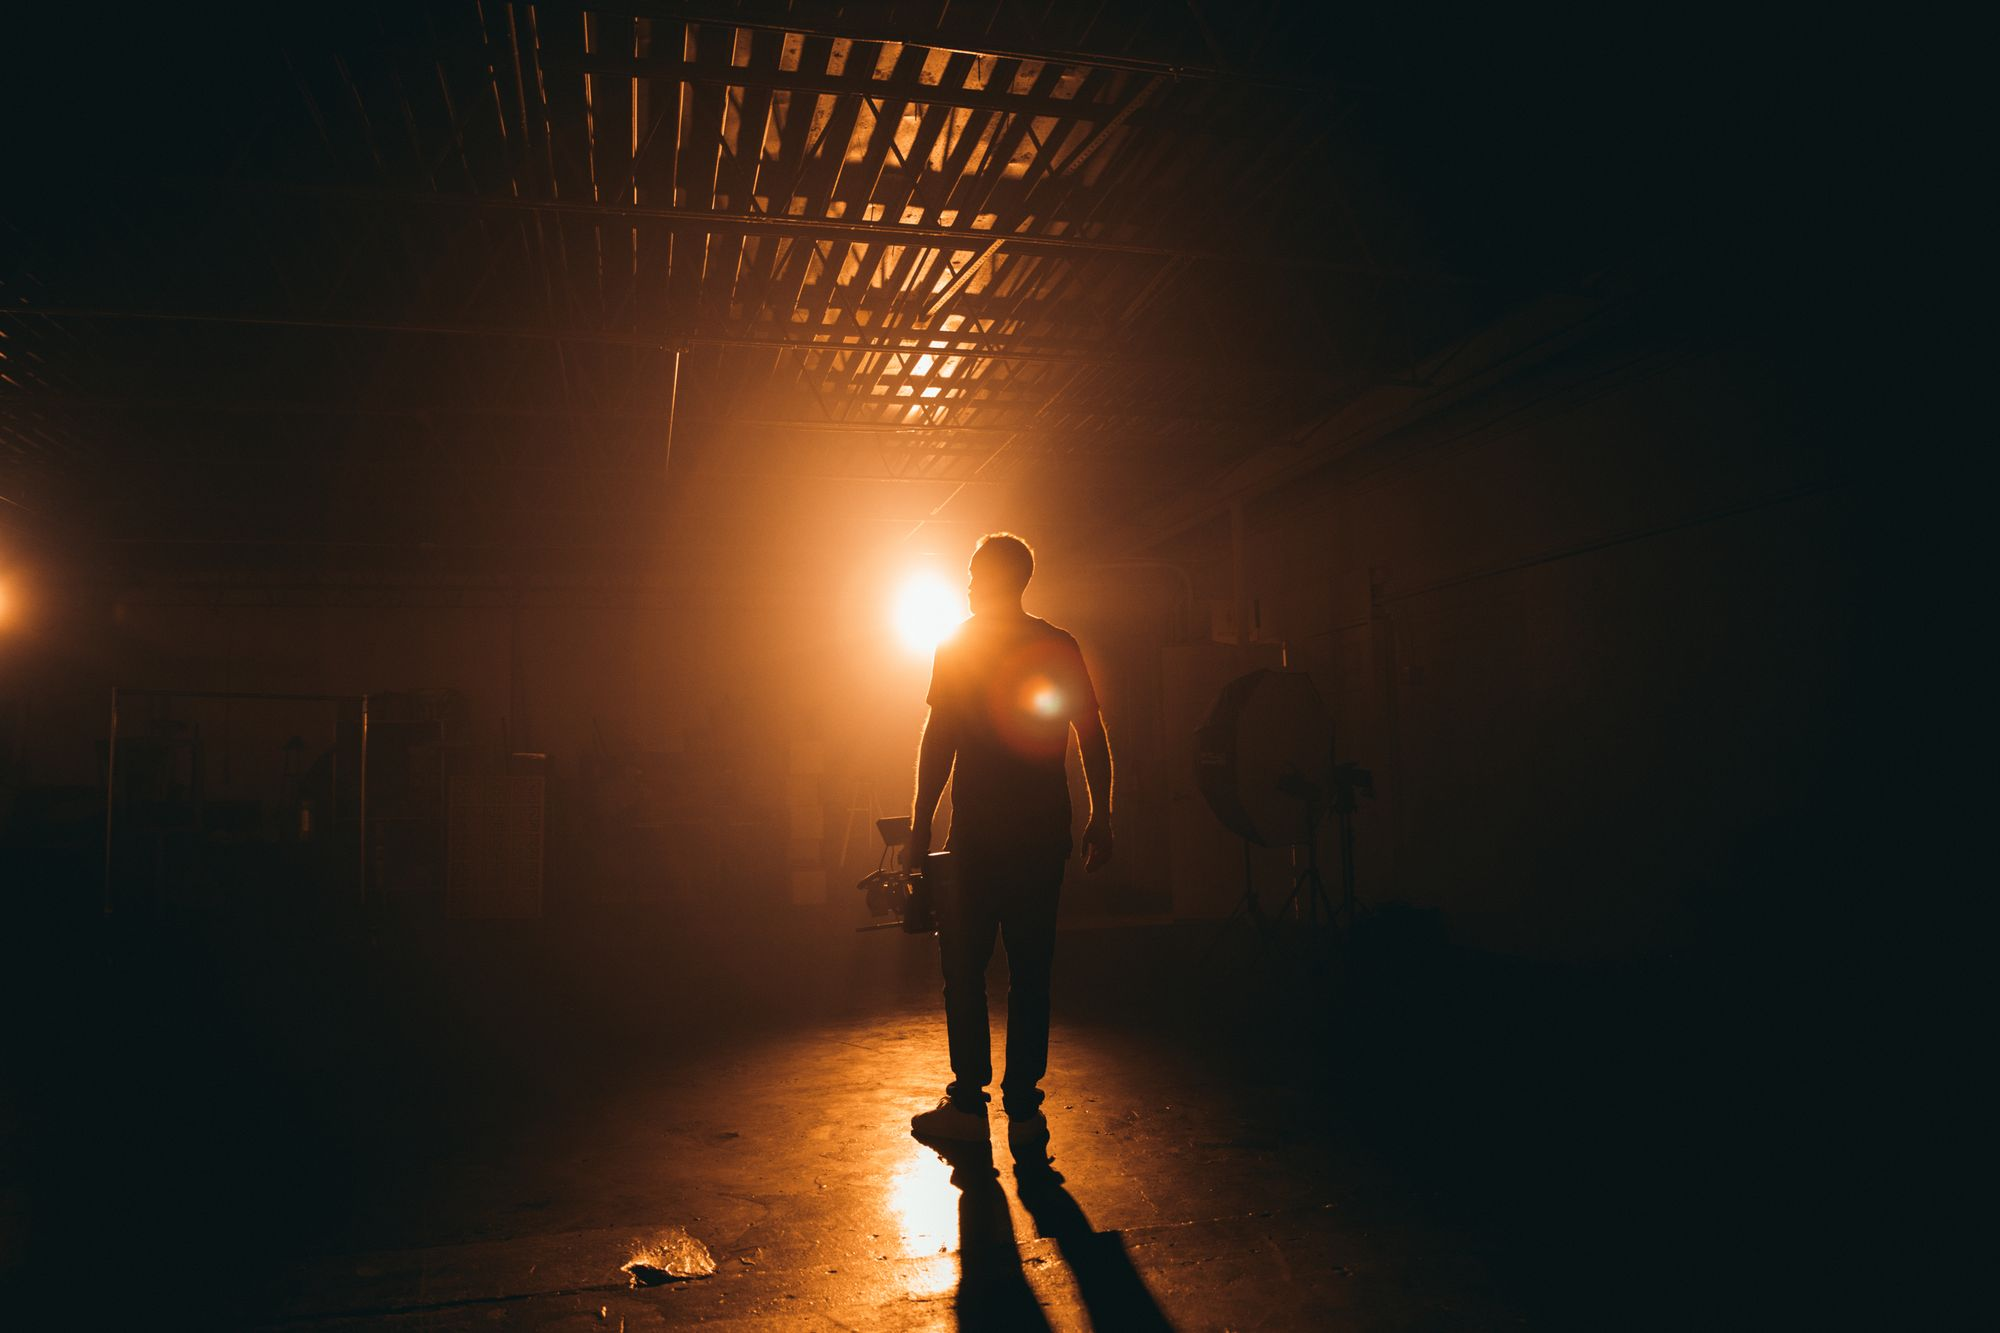
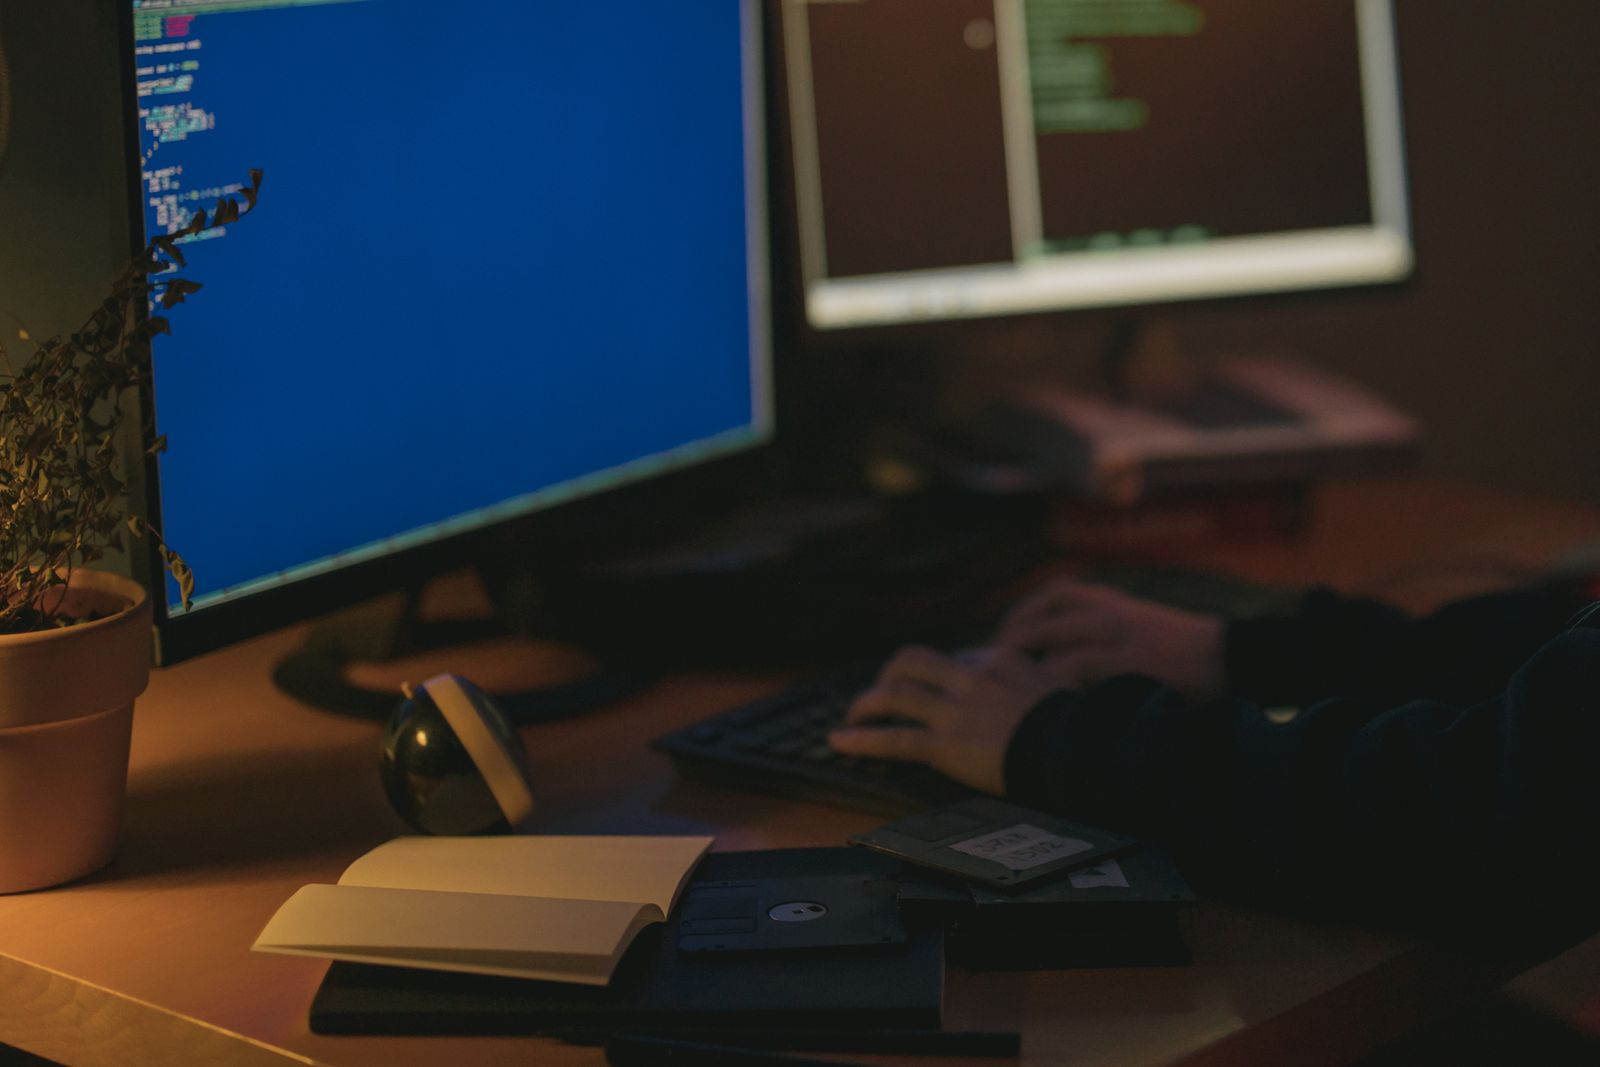
Swap team and location images for stronger fits
- studio.jpeg: dark dev-desk tech-workspace still-life (anonymous),
  replacing the backlit figure — reads clearly as a tech studio.
- reach-aerial.jpeg: top-down aerial of a Kolkata flyover junction,
  localising the "reach" band to the studio's home city.
- IMAGE_CREDITS.md: updated provenance (Pexels 5473299, 17778589).

diff --git a/docs/IMAGE_CREDITS.md b/docs/IMAGE_CREDITS.md
@@ -26,13 +26,13 @@ specimens are unchanged.
 | `work-sentinel.jpeg` | Work — Sentinel (AI agents) | Orange neon X reflected on a dark facade | Pexels `17192724` |
 | `work-atlas.jpeg` | Work — Atlas (robotics) | Cobot arm + gripper on near-black | Pexels `8438863` |
 | `work-skyline.jpeg` | Work — Skyline (drones) | Aerial foggy valley with road | Pexels `13444084` |
-| `studio.jpeg` | Studio — "the studio at work" | Backlit lone figure in a studio space (anonymous) | Pexels `3379932` |
+| `studio.jpeg` | Studio — "the studio at work" | Dark dev desk — code monitor + anonymous hands (tech-workspace still-life) | Pexels `5473299` |
 | `footer-band.jpeg` | Footer — cinematic pre-footer band | Aerial through cloud cover | Pexels `34926578` |
 | `stage-software.jpeg` | Theater — Software & Product | Backlit keyboard macro | `photo-1612383401597-cdfb8bdfa0d9` |
 | `stage-ai.jpeg` | Theater — AI Agents & LLM | Circuit board macro | `photo-1518770660439-4636190af475` |
 | `stage-robotics.jpeg` | Theater — Robotics | Industrial robot arm, white showroom | `photo-1655393001768-d946c97d6fd1` |
 | `stage-drones.jpeg` | Theater — Drone Operations | Quadcopter over misty ridges | `photo-1508444845599-5c89863b1c44` |
-| `reach-aerial.jpeg` | Reach — footprint band | Aerial highway interchange | `photo-1465447142348-e9952c393450` |
+| `reach-aerial.jpeg` | Reach — footprint band | Top-down aerial of a Kolkata flyover junction at dusk | Pexels `17778589` |
 
 Original page for a Pexels photo: `https://www.pexels.com/photo/<ID>/`.
 Original page for an Unsplash photo: `https://unsplash.com/photos/<photo ID>`.